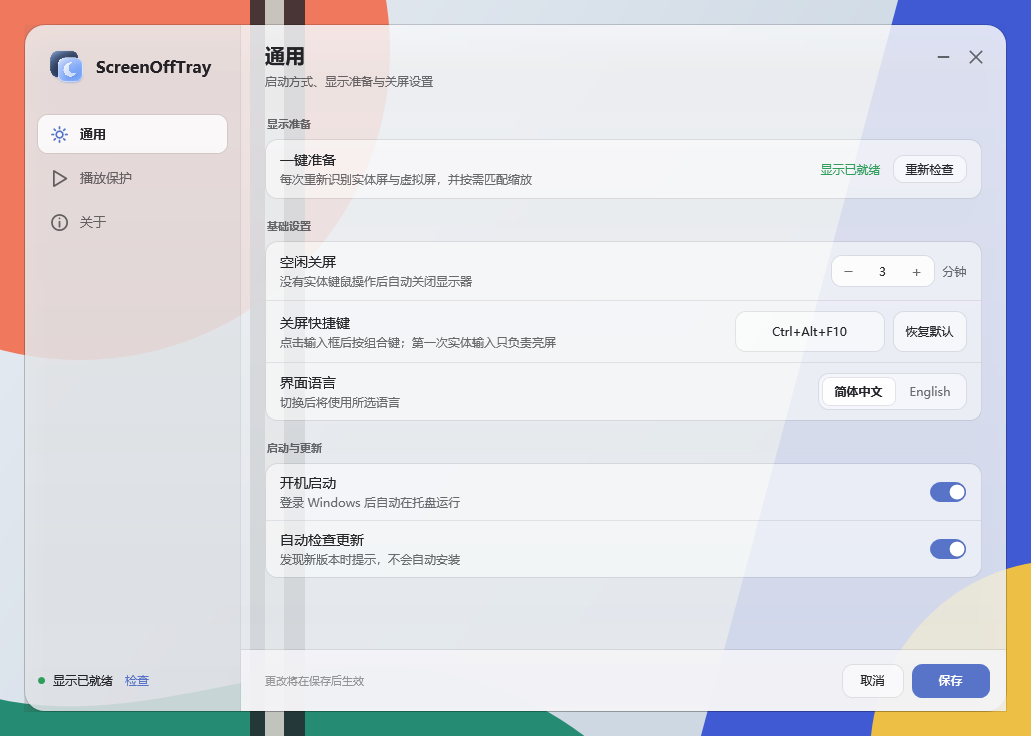
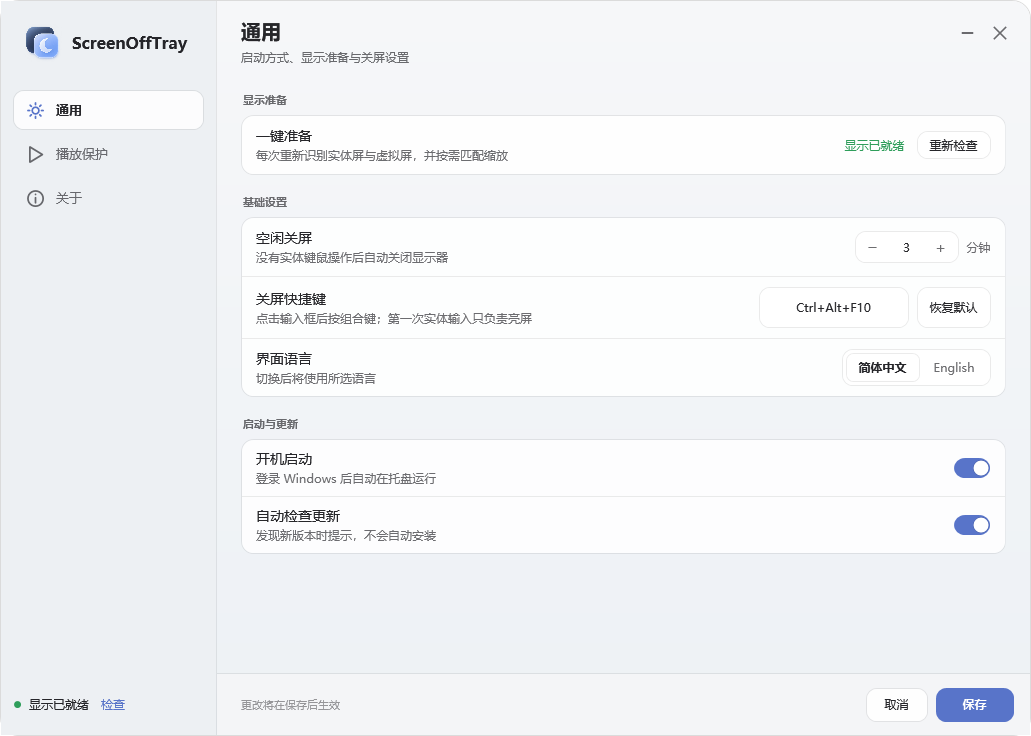
feat: release neutral glass UI 0.2.1

diff --git a/帮助.html b/帮助.html
@@ -2,7 +2,7 @@
 <html lang="zh-CN"><meta charset="utf-8"><meta name="viewport" content="width=device-width,initial-scale=1">
 <title>ScreenOffTray 使用帮助 / Help</title>
 <style>body{font:16px/1.7 "Microsoft YaHei UI","Segoe UI",sans-serif;color:#202020;background:#fafafa;max-width:740px;margin:40px auto;padding:0 24px}h1{font-size:28px}h2{font-size:21px;margin-top:32px}kbd{font:inherit;background:#eee;border:1px solid #ccc;border-radius:4px;padding:1px 5px}a{color:#075ca8}li{margin:8px 0}hr{border:0;border-top:1px solid #ccc;margin:40px 0}</style>
-<h1>自动关屏 · ScreenOffTray 0.2.0</h1>
+<h1>自动关屏 · ScreenOffTray 0.2.1</h1>
 <p>只关闭显示器，继续运行当前程序和后台任务。适用于 Windows 10 22H2 / Windows 11 x64，以及一个实体显示器。</p>
 <h2>开始使用</h2>
 <ol><li>打开安装包，按 Windows 提示完成管理员确认。已有可用虚拟显示驱动会直接复用；日常使用不需要管理员权限。</li><li>安装完成后核对启动结果；需要配置时自动打开设置引导，升级且已就绪时直接进入托盘。点击“一键准备”，程序按当前实体屏的实际像素尺寸检查虚拟模式；横屏、竖屏和不同宽高比使用同一流程，不固定某个分辨率或缩放。</li><li>Windows 已列出精确模式时直接复用，不改配置、不重载。缺少模式时，程序在普通权限允许的配置中保留原内容、备份原件并补充模式，必要时请求管理员确认，仅重新载入已核实的唯一虚拟设备。期间可能闪屏或改变布局；不卸载驱动、不关闭其他软件，也不会自动重启电脑。</li><li>设备重载后重新建立显示基线，再进入受保护准备，核对真实分辨率和缩放，完成后回到仅实体屏显示。显示“已就绪”后关闭设置，继续在托盘运行。准备期间请勿同时修改 Windows 显示设置。</li><li>驱动不接受模式、缩放不匹配、配置受保护、外部配置变更或设备要求重启时，会说明原因并保持关屏停用。分辨率已补充不代表缩放已匹配；设备重载前的旧快照不保证跨重载恢复。技术信息见“诊断详情”。</li><li>托盘右键是小菜单，“设置…”打开独立窗口；关闭窗口后继续在托盘运行。普通设置点保存生效，白名单增删即时保存。新用户默认空闲 10 分钟，识别到唯一旧设置时保留；开机启动默认关闭。</li></ol>
@@ -12,7 +12,7 @@
 <p>首次准备和设置中的一键准备共用同一流程。管理员确认取消后，已安全补充的模式可能保留，但不会宣称设备已重载或关屏已启用。取消或退出会等待正在进行的系统设备操作返回，不强行结束系统进程。</p>
 <p>每次点击“一键准备”都重新读取当前显示条件。临时扩展后，仅将已核实 MttVDD 的缩放匹配到实体屏；已一致时不重复写入。使用未公开的 Windows 缩放接口，须核对支持范围和实际读数，不支持自定义比例或无法核验时停止；不会修改实体屏缩放。失败后依照原恢复保护核对原布局，成功后回到仅实体屏显示。</p>
 <p>若检测到配置同时被其他软件更新，会停止后续重载并保留原件、实际被替换版和变更记录，供核对处理；不会猜测性自动回滚。无法核验分辨率或缩放时同样保持停用，不降低实体屏分辨率。</p>
-<p>设置窗口由独立 WPF 进程承载，分为通用、播放保护、关于三页，并提供几何、暖白、黑色三种外观。窗口按工作区自动调整大小；文字保持正常排版，较小工作区以正文滚动保留操作按钮，长诊断与播放列表只在局部滚动。</p>
+<p>设置窗口由独立 WPF 进程承载，分为通用、播放保护、关于三页，并提供浅色、暖白、黑色三种外观。浅色使用中性蓝灰雾面，不再照搬参考页的彩色几何壁纸；安装向导沿用同一套蓝灰材质、细高光边、玻璃卡片和双层月亮标识，同时保留系统原生文字、按钮、键盘操作与高 DPI 行为。窗口按工作区自动调整大小；文字保持正常排版，较小工作区以正文滚动保留操作按钮，长诊断与播放列表只在局部滚动。</p>
 <h2>关屏与唤醒</h2>
 <ul><li>默认快捷键为 <kbd>Ctrl</kbd> + <kbd>Alt</kbd> + <kbd>F10</kbd>，也可使用菜单“立即关屏”。托盘右键→“设置…”里点击快捷键输入框，直接按组合键录入，点击保存后生效并在下次启动时保留。“恢复默认”需再点击保存；取消不会修改。若组合键已被占用或保存失败，原快捷键保持有效。暂停自动关屏时，手动关屏仍可使用。</li><li>实际关屏后有 3 秒保护期。期间的实体按键和鼠标按钮不唤醒，也不传给当前软件。</li><li>保护期结束后，松开已按住的键，再按一次实体键盘或鼠标按钮唤醒。第一次按下及其松开只负责亮屏；第二次才正常操作软件。</li><li>移动鼠标、滚轮、Windows 标记为注入的键鼠输入不唤醒。不能据此保证所有第三方内核模拟输入都可被区分。</li><li>关屏期间保持系统运行，不锁屏、不睡眠、不休眠、不关机。工具不修改电源计划、NVIDIA 模式或安全设置。</li></ul>
 <h2>自动关屏与暂停原因</h2><p>自动计时只使用已有实体键鼠识别规则。打开设置，在“当前播放程序”旁加入白名单；保存的名单用单行下拉选择，可直接移除。添加和移除即时保存，取消其他设置不会撤销名单变化。首次使用名单为空；只有可执行文件完整路径匹配的音频程序正在播放，才保护自动关屏。纯静音视频、名单以外的程序和系统亮屏请求本身不保护。</p><p>播放停止后重新等待完整关闭时间。默认播放保护上限为60分钟，从最后一次实体输入计算；达到上限后即使继续播放，也不再保护自动关屏，但仍须达到普通空闲时间。可在设置关闭上限。可靠对应到同一程序、状态新鲜且明确暂停的播放器会从当前播放中排除；不保证所有播放器的识别。音频状态或白名单读取失败时，自动关屏暂停并显示原因；损坏的名单不会当作空名单，原始设置保留，成功保存有效名单后恢复判断。手动“立即关屏”和快捷键不受播放保护限制。</p>
@@ -27,7 +27,7 @@
 <p>显示条件不符时，程序暂停关屏。安装后会直接进入独立首次配置引导，检查通过才显示“已就绪，开始使用”。显示条件不符时，引导会说明如何处理，并留在同一窗口供重新检查；关闭可稍后处理。首次配置未完成时，程序不会关屏。正常就绪启动保持安静。同一次运行的相同未解决异常不反复弹窗，可随时从托盘“设置…”查看。发生恢复失败时请保留运行记录，并使用旧版回退材料，避免盲目重装其他软件的显示驱动。</p>
 <hr>
 <section lang="en"><h1>ScreenOffTray Help</h1>
-<p>Turns off the display while applications and background tasks continue. Version 0.2.0 targets Windows 10 22H2 / Windows 11 x64 with one physical display.</p>
+<p>Turns off the display while applications and background tasks continue. Version 0.2.1 targets Windows 10 22H2 / Windows 11 x64 with one physical display.</p>
 <h2>Get started</h2>
 <p>After installation, choose “Complete setup” or “Adapt display”. The same flow uses the current physical source pixel dimensions for landscape, portrait and different aspect ratios. If Windows already lists the exact virtual mode, no configuration or device reload is needed. Otherwise, the app preserves and backs up a supported, writable configuration, adds the mode, then requests administrator approval only for restarting the verified virtual device. This may flicker or change the display layout; it does not uninstall drivers, close other apps or reboot Windows automatically.</p>
 <p>After reload, setup captures a fresh display baseline and runs the existing protected resolution and DPI checks. Only then does it leave physical display only and report Ready. Do not change Windows display settings during preparation. A mode entry alone does not prove matching DPI; failure leaves display off disabled. A pre-reload snapshot is not guaranteed to restore a reloaded device's changed identities.</p>
@@ -38,7 +38,7 @@
 <p>Cancelling the administrator prompt may leave a safely added mode in the file, but does not claim a successful reload or readiness. Cancellation and exit wait for an in-flight system operation rather than force-killing it. Conflicting external edits stop further reload and retain the original, actual replaced version and change record for resolution; no speculative automatic rollback is performed.</p>
 <p>Every Prepare attempt reads current display conditions. After a guarded temporary extension, only the verified MttVDD scale is matched to the physical display; matching values are not rewritten. This uses an undocumented Windows scaling interface with range and measured-readback checks. Unsupported custom scales or unverifiable readings stop preparation without changing physical scale. Failures retain the existing original-layout recovery protection; successful preparation leaves physical display only.</p>
 <p>Unsupported modes, unavailable or mismatched DPI, configuration conflicts and reboot requirements are reported. The app does not lower physical resolution.</p>
-<p>Settings runs in a separate WPF process with General, Playback protection and About pages. Geometry, Warm white and Black appearances are available. The window adapts to the monitor work area; text keeps normal layout, smaller work areas allow body scrolling while preserving action buttons, and diagnostics and playback lists use local scrolling.</p>
+<p>Settings runs in a separate WPF process with General, Playback protection and About pages. Light, Warm white and Black appearances are available. Light uses a neutral blue-gray frosted background rather than the reference sample's colored geometry wallpaper. Setup uses the same blue-gray material, fine highlight edges, glass cards and layered-moon mark while retaining native text, buttons, keyboard behavior and high-DPI handling. The window adapts to the monitor work area; text keeps normal layout, smaller work areas allow body scrolling while preserving action buttons, and diagnostics and playback lists use local scrolling.</p>
 <h2>Turn off and wake</h2>
 <p>The default shortcut is <kbd>Ctrl+Alt+F10</kbd>. Open Settings from the tray, focus the shortcut box and press the desired combination. Release the keys, then Save to apply and remember it. “Use default” changes the draft until saved; Cancel keeps the current shortcut. If the shortcut is already in use or saving fails, the previous shortcut stays active. You can also use “Turn off now”. Manual off still works while automatic off is paused. The 3-second guard starts after the display turns off. Presses during the guard are ignored. Release any held input, then press a physical key or mouse button to wake. The first press and release are consumed; the second works normally. Mouse motion, scrolling and Windows-marked injected input do not wake. Some kernel-level simulated input cannot be reliably distinguished.</p>
 <p>The app does not lock, sleep, hibernate or shut down Windows. It does not change NVIDIA modes, power plans or security settings.</p>

diff --git a/WpfSettings/SettingsWindow.xaml b/WpfSettings/SettingsWindow.xaml
@@ -16,33 +16,12 @@
     </ResourceDictionary>
   </Window.Resources>
 
-  <Grid x:Name="Stage">
-    <Grid.Background>
-      <LinearGradientBrush StartPoint="0,0" EndPoint="1,1">
-        <GradientStop Color="#E8EDF3" Offset="0"/>
-        <GradientStop Color="#DDE5ED" Offset="0.52"/>
-        <GradientStop Color="#CDD8E3" Offset="1"/>
-      </LinearGradientBrush>
-    </Grid.Background>
-    <Canvas x:Name="GeometryLayer" ClipToBounds="True">
-      <Ellipse Width="620" Height="620" Canvas.Left="-230" Canvas.Top="-260" Fill="#F0785D"/>
-      <Rectangle Width="520" Height="980" Canvas.Left="800" Canvas.Top="-90" Fill="#405AD4" RenderTransformOrigin="0.5,0.5">
-        <Rectangle.RenderTransform><RotateTransform Angle="15"/></Rectangle.RenderTransform>
-      </Rectangle>
-      <Path Fill="#268B73" Data="M -110 650 C 70 780 260 640 430 670 C 610 700 700 850 710 930 L -110 930 Z"/>
-      <Ellipse Width="390" Height="390" Canvas.Left="870" Canvas.Top="560" Fill="#EDBF45"/>
-      <Rectangle Width="55" Height="900" Canvas.Left="250" Canvas.Top="-50" Fill="#24262C" Opacity="0.82"/>
-      <Rectangle Width="19" Height="900" Canvas.Left="265" Canvas.Top="-50" Fill="#E9E6DE" Opacity="0.8"/>
-    </Canvas>
-
-    <Border x:Name="Shell" Margin="24" CornerRadius="20" BorderBrush="#24000000" BorderThickness="1" ClipToBounds="True">
-      <Border.Effect>
-        <DropShadowEffect BlurRadius="45" ShadowDepth="17" Direction="270" Opacity="0.224" Color="#000000"/>
-      </Border.Effect>
+  <Grid x:Name="Stage" Background="Transparent">
+    <Border x:Name="Shell" Margin="0" CornerRadius="18" BorderBrush="#24000000" BorderThickness="1" ClipToBounds="True">
       <Border.Background>
         <LinearGradientBrush StartPoint="0,0" EndPoint="0,1">
-          <GradientStop Color="#EAF6F7F9" Offset="0"/>
-          <GradientStop Color="#E8EDF1F5" Offset="1"/>
+          <GradientStop Color="#FFF6F7F9" Offset="0"/>
+          <GradientStop Color="#FFEDF1F5" Offset="1"/>
         </LinearGradientBrush>
       </Border.Background>
       <Grid>
@@ -51,7 +30,7 @@
           <ColumnDefinition Width="*"/>
         </Grid.ColumnDefinitions>
 
-        <Border x:Name="SidebarSurface" Grid.Column="0" Background="#16808080" BorderBrush="{DynamicResource Stroke}" BorderThickness="0,0,1,0">
+        <Border x:Name="SidebarSurface" Grid.Column="0" Background="#FFEDF0F3" BorderBrush="{DynamicResource Stroke}" BorderThickness="0,0,1,0">
           <Grid Margin="12,23,12,20">
             <Grid.RowDefinitions>
               <RowDefinition Height="Auto"/>
@@ -335,7 +314,7 @@
                   <Image Source="Assets/app-icon.png" Width="82" Height="82" Stretch="Uniform"/>
                   <StackPanel Grid.Column="1" VerticalAlignment="Center">
                     <TextBlock Text="ScreenOffTray" FontSize="20" FontWeight="SemiBold" Foreground="{DynamicResource Text1}"/>
-                    <TextBlock Text="版本 0.2.0 · Windows x64" FontSize="12" Foreground="{DynamicResource Text2}" Margin="0,5,0,0"/>
+                    <TextBlock Text="版本 0.2.1 · Windows x64" FontSize="12" Foreground="{DynamicResource Text2}" Margin="0,5,0,0"/>
                     <TextBlock Text="只关闭显示器，后台程序和任务继续运行。" FontSize="12" Foreground="{DynamicResource Text2}" Margin="0,5,0,0"/>
                     <TextBlock x:Name="UpdateStatusText" Visibility="Collapsed" TextWrapping="Wrap" FontSize="11" Foreground="{DynamicResource Accent}" Margin="0,6,0,0"/>
                   </StackPanel>
@@ -362,7 +341,7 @@
                     </StackPanel>
                     <Border HorizontalAlignment="Right" Background="{DynamicResource FillControl}" BorderBrush="{DynamicResource Stroke}" BorderThickness="1" CornerRadius="10" Padding="2">
                       <StackPanel Orientation="Horizontal">
-                        <RadioButton x:Name="GeometryChoice" Style="{StaticResource SegmentedChoice}" GroupName="PreviewBackground" Content="几何" IsChecked="True" Tag="geometry" Click="OnBackgroundChoice"/>
+                        <RadioButton x:Name="GeometryChoice" Style="{StaticResource SegmentedChoice}" GroupName="PreviewBackground" Content="浅色" IsChecked="True" Tag="geometry" Click="OnBackgroundChoice"/>
                         <RadioButton x:Name="WarmChoice" Style="{StaticResource SegmentedChoice}" GroupName="PreviewBackground" Content="暖白" Tag="warm" Click="OnBackgroundChoice"/>
                         <RadioButton x:Name="BlackChoice" Style="{StaticResource SegmentedChoice}" GroupName="PreviewBackground" Content="黑色" Tag="black" Click="OnBackgroundChoice"/>
                       </StackPanel>
@@ -386,7 +365,7 @@
             <TextBlock x:Name="ErrorText" FontSize="12" Foreground="{DynamicResource Danger}" TextWrapping="Wrap"/>
           </Border>
 
-          <Border x:Name="FooterBar" Grid.Row="3" BorderBrush="{DynamicResource Stroke}" BorderThickness="0,1,0,0" Background="#EAF4F5F7">
+          <Border x:Name="FooterBar" Grid.Row="3" BorderBrush="{DynamicResource Stroke}" BorderThickness="0,1,0,0" Background="#FFF4F5F7">
             <Grid Margin="24,0,16,0">
               <Grid.ColumnDefinitions><ColumnDefinition Width="*"/><ColumnDefinition Width="Auto"/></Grid.ColumnDefinitions>
               <TextBlock x:Name="FooterHint" Text="更改将在保存后生效" FontSize="11" Foreground="{DynamicResource Text3}" VerticalAlignment="Center"/>

diff --git a/WpfSettings/SettingsWindow.cs b/WpfSettings/SettingsWindow.cs
@@ -100,7 +100,7 @@ namespace ScreenOffTray.SettingsUi
             {
                 string value;
                 if(StaticTranslations.TryGetValue(text.Text,out value))text.Text=value;
-                else if(text.Text=="版本 0.2.0 · Windows x64")text.Text="Version 0.2.0 · Windows x64";
+                else if(text.Text=="版本 0.2.1 · Windows x64")text.Text="Version 0.2.1 · Windows x64";
             }
             var control=root as ContentControl;
             if(control!=null && control.Content is string)
@@ -144,7 +144,7 @@ namespace ScreenOffTray.SettingsUi
             {"3 秒防误触","3-second guard"},{"保护期内的实体输入不会唤醒，也不会传给当前软件","Physical input during the guard neither wakes nor reaches the active app"},
             {"首次输入只负责亮屏","First input only wakes"},{"松开后再次按键或点击，才会正常操作软件","Release, then press or click again to control the app"},
             {"外观","Appearance"},{"窗口外观","Window appearance"},{"三套外观只改变设置窗口材质，选择会随设置保存","The three appearances change only this Settings window and are saved with your settings"},
-            {"几何","Geometry"},{"暖白","Warm white"},{"黑色","Black"},
+            {"浅色","Light"},{"暖白","Warm white"},{"黑色","Black"},
             {"数据与帮助","Data and help"},{"设置保存在本机","Settings stay on this PC"},{"安装版由独立后台读写；当前预览不会修改正式配置","The installed app stores settings through its local backend"},
             {"本地","Local"},{"打开使用帮助","Open help"},{"查看显示准备、播放保护与快捷键说明","Read about display preparation, playback protection and hotkeys"},{"打开","Open"},
             {"检查更新","Check for updates"},{"更改将在保存后生效","Changes take effect after saving"},{"白名单增删即时保存","Allowlist changes save immediately"},
@@ -425,25 +425,30 @@ namespace ScreenOffTray.SettingsUi
             backgroundMode=(mode??"geometry").ToLowerInvariant();
             if(backgroundMode!="geometry" && backgroundMode!="warm" && backgroundMode!="black")backgroundMode="geometry";
             bool dark=backgroundMode=="black";
-            if(GeometryLayer==null)return;
-            GeometryLayer.Visibility=backgroundMode=="geometry"?Visibility.Visible:Visibility.Collapsed;
-            if(backgroundMode=="warm")Stage.Background=MakeBrush("#E8E5DF");
-            else if(dark)Stage.Background=MakeBrush("#0D0E12");
-            else Stage.Background=new LinearGradientBrush(ParseColor("#E8EDF3"),ParseColor("#CDD8E3"),45);
+            Stage.Background=Brushes.Transparent;
             GeometryChoice.IsChecked=backgroundMode=="geometry";WarmChoice.IsChecked=backgroundMode=="warm";BlackChoice.IsChecked=backgroundMode=="black";
             if(dark)
             {
                 Resources["Text1"]=MakeBrush("#F2FFFFFF");Resources["Text2"]=MakeBrush("#A6FFFFFF");Resources["Text3"]=MakeBrush("#70FFFFFF");
-                Resources["Stroke"]=MakeBrush("#18FFFFFF");Resources["FillControl"]=MakeBrush("#12FFFFFF");Resources["FillHover"]=MakeBrush("#0FFFFFFF");
+                Resources["Stroke"]=MakeBrush("#18FFFFFF");Resources["FillControl"]=MakeBrush("#20FFFFFF");Resources["FillHover"]=MakeBrush("#18FFFFFF");
                 Resources["FillSelected"]=MakeBrush("#20FFFFFF");Resources["WarningSurface"]=MakeBrush("#2AF5A524");Resources["DangerSurface"]=MakeBrush("#28E5484D");Resources["SuccessSurface"]=MakeBrush("#2035B880");
-                Shell.Background=MakeGradient("#F0181A1E","#F0121417");SidebarSurface.Background=MakeBrush("#18FFFFFF");FooterBar.Background=MakeBrush("#E614171B");Shell.BorderBrush=MakeBrush("#22FFFFFF");
+                Shell.Background=MakeGradient("#FF181A1E","#FF121417");SidebarSurface.Background=MakeBrush("#FF24272C");FooterBar.Background=MakeBrush("#FF14171B");Shell.BorderBrush=MakeBrush("#22FFFFFF");
             }
             else
             {
                 Resources["Text1"]=MakeBrush("#EB141418");Resources["Text2"]=MakeBrush("#9E141418");Resources["Text3"]=MakeBrush("#6B141418");
-                Resources["Stroke"]=MakeBrush("#14000000");Resources["FillControl"]=MakeBrush("#80FFFFFF");Resources["FillHover"]=MakeBrush("#0C000000");
-                Resources["FillSelected"]=MakeBrush("#CFFFFFFF");Resources["WarningSurface"]=MakeBrush("#FFF8E8");Resources["DangerSurface"]=MakeBrush("#FFF0F0");Resources["SuccessSurface"]=MakeBrush("#EEF9F2");
-                Shell.Background=MakeGradient("#DCF6F7F9","#D8EDF1F5");SidebarSurface.Background=MakeBrush("#16808080");FooterBar.Background=MakeBrush("#DCF4F5F7");Shell.BorderBrush=MakeBrush("#24000000");
+                if(backgroundMode=="warm")
+                {
+                    Resources["Stroke"]=MakeBrush("#1C5B4E40");Resources["FillControl"]=MakeBrush("#FFFDFBF7");Resources["FillHover"]=MakeBrush("#0C5B4E40");
+                    Resources["FillSelected"]=MakeBrush("#FFFFFEFA");Resources["WarningSurface"]=MakeBrush("#FFF8E8");Resources["DangerSurface"]=MakeBrush("#FFF0F0");Resources["SuccessSurface"]=MakeBrush("#EEF9F2");
+                    Shell.Background=MakeGradient("#FFF7F3ED","#FFEEEAE2");SidebarSurface.Background=MakeBrush("#FFF1EDE6");FooterBar.Background=MakeBrush("#FFFAF7F2");Shell.BorderBrush=MakeBrush("#285B4E40");
+                }
+                else
+                {
+                    Resources["Stroke"]=MakeBrush("#14000000");Resources["FillControl"]=MakeBrush("#DFFFFFFF");Resources["FillHover"]=MakeBrush("#0C000000");
+                    Resources["FillSelected"]=MakeBrush("#CFFFFFFF");Resources["WarningSurface"]=MakeBrush("#FFF8E8");Resources["DangerSurface"]=MakeBrush("#FFF0F0");Resources["SuccessSurface"]=MakeBrush("#EEF9F2");
+                    Shell.Background=MakeGradient("#FFF6F7F9","#FFEDF1F5");SidebarSurface.Background=MakeBrush("#FFEDF0F3");FooterBar.Background=MakeBrush("#FFF4F5F7");Shell.BorderBrush=MakeBrush("#24000000");
+                }
             }
         }
 

diff --git a/tests/WpfSettingsLayoutTests.cs b/tests/WpfSettingsLayoutTests.cs
@@ -50,6 +50,8 @@ internal static class WpfSettingsLayoutTests
                 string tag=english?"en":"zh";
                 Check(Math.Abs(window.Width/window.Height-1.4)<0.001,tag+" preserves the 7:5 window ratio");
                 Check(window.ActualWidth>0 && window.ActualHeight>0,tag+" has a visible native work area");
+                Check(Field<Border>(window,"Shell").Margin==new Thickness(0),tag+" uses the glass shell as the window boundary without a display backdrop");
+                Check(((SolidColorBrush)Field<Border>(window,"FooterBar").Background).Color.A==255,tag+" keeps the footer surface opaque to prevent transparent-window ghosting");
                 Check(Field<ComboBox>(window,"WhitelistCombo").Items.Count==10,tag+" renders all ten allowlist entries");
                 Check(Field<Border>(window,"FooterBar").ActualHeight>0,tag+" keeps a fixed footer");
                 Check(Field<Button>(window,"SaveButton").IsVisible && Field<Button>(window,"CancelButton").IsVisible,tag+" keeps save and cancel visible");
@@ -64,11 +66,19 @@ internal static class WpfSettingsLayoutTests
                 window.SetPlaybackState(true,false);
                 Check(summary.Text.Contains(english?"limit reached":"上限已到"),tag+" reports that the playback limit ended protection");
 
+                string lightShell=null,warmShell=null,blackShell=null;
                 foreach(string theme in new[]{"geometry","warm","black","geometry"}) {
                     window.SetValues(3,"Ctrl+Alt+F10",english?"en":"zh-CN",true,true,true,87,theme);
                     Check(window.InterfaceTheme==theme,tag+" applies "+theme+" appearance");
+                    string shellColor=((LinearGradientBrush)Field<Border>(window,"Shell").Background).GradientStops[0].Color.ToString();
+                    if(theme=="geometry")lightShell=shellColor;
+                    else if(theme=="warm")warmShell=shellColor;
+                    else blackShell=shellColor;
+                    ShowPage(window,"general");
+                    Capture(window,"settings-"+theme+"-"+tag+".png");
                 }
-                Check(Field<Canvas>(window,"GeometryLayer").Visibility==Visibility.Visible,tag+" geometry decorations are visible by default");
+                Check(lightShell!=warmShell && warmShell!=blackShell && lightShell!=blackShell,tag+" uses distinct top-level colors for all three appearances");
+                Check(window.FindName("GeometryLayer")==null,tag+" removes the reference image's colored geometry wallpaper");
                 ShowPage(window,"playback");Capture(window,"settings-playback-"+tag+".png");
                 ShowPage(window,"about");Capture(window,"settings-about-"+tag+".png");
                 ShowPage(window,"general");Capture(window,"settings-general-"+tag+".png");

diff --git a/tests/UpdateVersionTests.cs b/tests/UpdateVersionTests.cs
@@ -21,13 +21,16 @@ namespace ScreenOffTray.Tests {
             Test("0.1.9.13","v0.2.0",UpdateCheckStatus.Available);
             Test("0.2.0","v0.1.9.13",UpdateCheckStatus.UpToDate);
             Test("0.2.0","v0.2.0",UpdateCheckStatus.UpToDate);
+            Test("0.2.0","v0.2.1",UpdateCheckStatus.Available);
+            Test("0.2.1","v0.2.0",UpdateCheckStatus.UpToDate);
+            Test("0.2.1","v0.2.1",UpdateCheckStatus.UpToDate);
             var unused=new Fake();using(var checker=new UpdateChecker("",new Version("0.1.9.11"),unused,TimeSpan.FromSeconds(2),16384)) {
                 var field=typeof(UpdateChecker).GetField("client",System.Reflection.BindingFlags.Instance|System.Reflection.BindingFlags.NonPublic);
                 if(field.GetValue(checker)!=null)throw new Exception("Unused client was allocated");
                 if(checker.CheckAsync(CancellationToken.None).Result.Status!=UpdateCheckStatus.NotConfigured || field.GetValue(checker)!=null)throw new Exception("Blank update source created HTTP client");
             }
             if(unused.Disposals!=1)throw new Exception("Unconsumed handler ownership was not released once");
-            Console.WriteLine("PASS 10 actual update-parser four-part version checks; fake HTTP only"); return 0;
+            Console.WriteLine("PASS 13 actual update-parser four-part version checks; fake HTTP only"); return 0;
             } catch(Exception error) { Console.WriteLine(error.GetType().FullName); Console.WriteLine(error.Message); return 1; }
         }
         private static void Test(string current,string tag,UpdateCheckStatus expected) {

diff --git a/Properties/AssemblyInfo.cs b/Properties/AssemblyInfo.cs
@@ -6,5 +6,5 @@ using System.Runtime.InteropServices;
 [assembly: AssemblyProduct("ScreenOffTray")]
 // Keep the existing settings version stable; file/product versions identify releases.
 [assembly: AssemblyVersion("0.0.0.0")]
-[assembly: AssemblyFileVersion("0.2.0.0")]
+[assembly: AssemblyFileVersion("0.2.1.0")]
 [assembly: ComVisible(false)]

diff --git a/docs/版本验证.md b/docs/版本验证.md
@@ -1,29 +1,27 @@
-# 0.1.9 验证范围 / Validation scope
+# 0.2.1 验证范围 / Validation scope
 
-本版为预发布，以下是已完成检查和剩余边界，不是全面稳定性保证。
+本版只修改设置外观与安装向导视觉，驱动、显示准备、关屏、输入恢复和播放判断沿用 `0.2.0`。完整记录见 [0.2.1 中性玻璃与安装器](0.2.1-中性玻璃与安装器.md)。
 
 ## 已完成
 
-- C稿结构、宽窄窗口、中英文代表样本、分钟/快捷键校验、保存取消、名单即时保存与失败保留、准备取消的隔离检查。
-- 低高度错误展示及恢复29项、中文96/192模拟DPI各29项、英文原窗口宽窄29项定向检查通过。真实窗口DPI120；其他DPI/工作区为模拟输入，不冒充实屏切换。
-- 四类猫动作、随机队列、键盘路由、姿态绘制、隐藏/最小化停止和重复释放的隔离检查。
-- 专门codex review使用gpt-6.1-sol/high，发现的低高度与旧测试入口问题已处理，后续最小增量独立复核。
-- 当前未插桩源码的可见关闭与宿主消息循环存活检查通过；无真实设置/设备操作。
-- .NET Framework 4.8/C#5、Inno Setup 7.1.0干净暂存构建，最终包解包比对。11项产品文件，无日志、个人设置、快照、测试程序或PDB；AssemblyVersion保持0.0.0.0，FileVersion=0.1.9.0。
-- 驱动INF/DLL/CAT和UI接入前的39项冻结文件保持不变。未改系统显示、驱动、安全或电源设置。
+- 删除彩色几何壁纸、外围演示底图、外边距和投影；设置窗口只保留自身圆角磨砂玻璃边界。
+- 顶层窗口、侧栏和页脚使用不透明雾面材质，隔离截图未再出现透明窗口内容重影。
+- 隔离 WPF 布局 39 项通过、0 失败，覆盖中英文、十项名单、宽窄工作区、固定底栏、键盘可见性、背景删除、不透明页脚与三套主题实际颜色差异。
+- 浅色、暖白、黑色三套截图均来自隔离假数据，不包含正式设置或个人程序路径。
+- Inno Setup 7.1.0 编译通过；动态浅/深色背景、侧图、小图和 Pane 风格字段被编译器接受。
+- 更新版本解析 13 项通过；安装器版本门禁 4 项通过，`0.2.1` 高于 `0.2.0`。
 
-## 已知问题与未验证
+## 未验证
 
-可见关闭探针曾在FormClosed后超时；旧诊断二进制、带记录副本与当前源码随后都正常关闭并继续宿主消息循环，原因仍未定位。没有为迎合测试猜测修改退出语义，也没有宣称偶发超时已根治。
-
-本版未验证干净Windows安装/升级、长期运行、真实跨屏DPI切换或全部硬件。未重复人工关屏矩阵。虚拟屏可能影响部分混合显卡的自动独显直连，未验证全面无影响。首次准备仅支持一个已启用实体屏；远程虚拟屏条件不符时可稍后处理，无需重复安装。
-
-截图是实际WinForms设置窗口，来自隔离假数据，并非用户当前配置；测试源码可复现部分检查。发布安装包与已验证的本地产物逐字节比对，公开发布不等于实机安装成功。
+- 未覆盖安装当前正式程序。
+- 未重复端到端人工关屏、驱动和输入恢复矩阵，因为相关代码未修改。
+- 安装器实际运行截图未纳入证据：当前电脑工具启动预览程序时审批超时。
+- 干净 Windows 安装、全部 DPI/多屏硬件和长期稳定性仍不等同于本批隔离检查。
 
 ## English
 
-Targeted native UI, animation, settings transaction and cancellation checks passed in isolation. Representative simulated DPI/work areas were tested; actual HWND DPI was120. Dedicated code review used gpt-6.1-sol/high. The final installer was unpacked and compared to the clean payload; driver files and accepted core decisions were preserved.
+This release changes Settings and Setup presentation only. Driver, display preparation, display-off, input recovery and playback decisions remain unchanged from `0.2.0`.
 
-A visible close probe previously timed out after FormClosed. Subsequent old-binary and current-source checks completed closure while the host loop survived; the cause is unknown. This is not a claim of permanent resolution.
+The colored geometry wallpaper, display-only backdrop, outer margin and shadow are removed. Opaque misted surfaces are used for the top-level window, sidebar and footer so isolated screenshots no longer show transparent-window content ghosting. Thirty-nine isolated WPF layout checks passed in Chinese and English, with ten allowlist rows, compact and regular layouts, fixed footer, background removal, opaque-footer and distinct appearance-color assertions. Inno Setup 7.1.0 accepted the dynamic light/dark wizard images. Update parsing and numeric installer version gates passed.
 
-Clean Windows installation/upgrades, long-running behavior, physical DPI transitions and full hardware compatibility remain unverified for this release. Remote virtual-display preparation and multiple physical displays are not supported. Hybrid GPU switching compatibility remains uncertain. The screenshot uses isolated demo data.
+The installed application was not overwritten. Hardware display-off, driver and input-recovery matrices were not repeated because their code did not change. A live Setup screenshot is not used as evidence because the local computer-use launch approval timed out. Clean Windows installation, every DPI/multi-display configuration and long-running stability remain outside this visual-release scope.

diff --git a/README_EN.md b/README_EN.md
@@ -1,4 +1,4 @@
-> ScreenOffTray 0.2.0 moves Settings into a separate Pane-styled WPF process with Geometry, Warm white and Black appearances. Existing driver, display-off, input recovery, playback protection and display preparation behavior is retained.
+> ScreenOffTray 0.2.1 brings Settings and Setup into one Pane-inspired neutral frosted-glass language with Light, Warm white and Black appearances. Existing driver, display-off, input recovery, playback protection and display preparation behavior is retained.
 
 # ScreenOffTray
 
@@ -8,13 +8,13 @@
 
 A Windows tray utility for OLED users who want the screen off while downloads, calculations and background work continue. Turn it off immediately with a shortcut, or automatically after physical keyboard and mouse inactivity. It does not lock, sleep, hibernate or shut down Windows.
 
-**[Download the Windows x64 installer · v0.2.0](https://github.com/shilefumaoqu/ScreenOffTray/releases/tag/v0.2.0)**
+**[Download the Windows x64 installer · v0.2.1](https://github.com/shilefumaoqu/ScreenOffTray/releases/tag/v0.2.1)**
 
-**0.2.0** runs the Pane-styled UI in `ScreenOffTray.Settings.exe`, while the background process continues to own tray state, playback protection, hotkeys and display off. The previous `v0.1.9` and older installers remain available.
+**0.2.1** removes the reference sample's colored geometry wallpaper and the display-only backdrop, outer margin and shadow from Settings, leaving only the neutral blue-gray rounded frosted-glass window. Opaque top-level misted surfaces also remove transparent-window content ghosting. Setup uses matching light and dark misted backgrounds, glass cards and the same layered-moon mark. `ScreenOffTray.Settings.exe` still owns the window, while the background process owns tray state, playback protection, hotkeys and display off. `v0.2.0`, `v0.1.9` and older installers remain available.
 
-![English Geometry appearance using isolated demo data](docs/images/settings-en.png)
+![English Light appearance using isolated demo data](docs/images/settings-en.png)
 
-Right-click opens a small menu with status and quick actions. Settings opens a separate Pane-styled WPF window with General, Playback protection and About pages. Geometry, Warm white and Black appearances are available; Geometry is the default and the choice is saved with the other settings. Application icons come from their executable files, while the header uses the supplied layered-moon icon. Closing Settings ends only that UI process; the tray application keeps running. Ready startup remains silent. The installer continues into the same Settings host: check displays, complete preparation, and confirm readiness. Users can defer action; display off stays disabled until preparation is verified.
+Right-click opens a small menu with status and quick actions. Settings opens a separate Pane-styled WPF window with General, Playback protection and About pages. Light, Warm white and Black appearances are available; Light is the default and the choice is saved with the other settings. Application icons come from their executable files, while Settings and Setup share the supplied layered-moon mark. Closing Settings ends only that UI process; the tray application keeps running. Ready startup remains silent. The installer continues into the same Settings host: check displays, complete preparation, and confirm readiness. Users can defer action; display off stays disabled until preparation is verified.
 
 [Chinese UI](docs/images/settings-zh.png) · [Warm white](docs/images/settings-warm.png) · [Black](docs/images/settings-black.png)
 
@@ -22,7 +22,7 @@ Targets **Windows 10 22H2 / Windows 11 x64 with one physical display** and requi
 
 ## Get started
 
-1. Download `ScreenOffTray-0.2.0-Setup-x64.exe` from the Release, run it, and complete the Windows administrator prompt. Setup works offline and does not download the .NET runtime.
+1. Download `ScreenOffTray-0.2.1-Setup-x64.exe` from the Release, run it, and complete the Windows administrator prompt. Setup works offline and does not download the .NET runtime. The wizard keeps native keyboard and DPI behavior while using a neutral misted background, fine highlight edges and glass cards.
 2. On first launch, choose “Prepare and enable display off”. Preparation matches the physical display conditions and restores the layout. The display may flicker; avoid changing Windows display settings at the same time. If safe matching fails, display-off stays paused.
 3. Right-click the tray icon → Settings to change the timeout, shortcut, language and startup preference. Save applies ordinary drafts; Cancel or closing the window discards them. Whitelist edits are saved immediately. Display off is deferred while Settings is open and resumes its existing rules after closure. New users start with **10 minutes** and startup disabled.
 4. Press **Ctrl+Alt+F10**, or choose “Turn off now”. To customize the shortcut, focus its field in Settings, press a combination, release it and save.

diff --git a/README.md b/README.md
@@ -1,4 +1,4 @@
-> ScreenOffTray 0.2.0：设置界面升级为独立的 Pane 风格 WPF 进程，提供几何、暖白和黑色三种外观，同时保留原有驱动、关屏、输入恢复、播放保护和显示准备流程。
+> ScreenOffTray 0.2.1：设置与安装向导统一为 Pane 风格的中性磨砂玻璃界面，提供浅色、暖白和黑色三种外观，同时保留原有驱动、关屏、输入恢复、播放保护和显示准备流程。
 
 # ScreenOffTray
 
@@ -8,13 +8,13 @@
 
 适合使用 OLED 显示器、希望离开时关屏，同时保留下载、计算和其他后台任务的 Windows 用户。支持快捷键立即关屏，也能按实体键鼠的空闲时间自动关屏。它不会锁屏、睡眠、休眠或关机。
 
-**[下载 Windows x64 安装包 · v0.2.0](https://github.com/shilefumaoqu/ScreenOffTray/releases/tag/v0.2.0)**
+**[下载 Windows x64 安装包 · v0.2.1](https://github.com/shilefumaoqu/ScreenOffTray/releases/tag/v0.2.1)**
 
-**0.2.0** 使用独立的 `ScreenOffTray.Settings.exe` 显示 Pane 风格设置界面，后台继续负责托盘、播放保护、快捷键和关屏。旧版 `v0.1.9` 及更早安装包继续保留，不会被覆盖。
+**0.2.1** 修正 Pane 风格设置页误用参考图彩色几何壁纸的问题，并删除窗口外围的演示底图、外边距和投影，只保留中性蓝灰磨砂玻璃窗口本体；顶层不透明雾面材质同时消除了透明窗口内容重影。安装向导同步采用浅/深色雾面背景、玻璃卡片和同款双层月亮图标。设置仍由独立的 `ScreenOffTray.Settings.exe` 承载，后台继续负责托盘、播放保护、快捷键和关屏。`v0.2.0`、`v0.1.9` 及更早安装包继续保留，不会被覆盖。
 
-![中文几何外观：隔离演示数据](docs/images/settings-zh.png)
+![中文浅色外观：隔离演示数据](docs/images/settings-zh.png)
 
-右键显示状态与常用操作的小菜单，点击“设置…”打开独立的 Pane 风格 WPF 窗口。界面分为通用、播放保护、关于三页，提供几何、暖白和黑色三种外观；默认几何，主题随设置保存。程序图标来自实际可执行文件，首页图标使用确认后的双层月亮资源。窗口可最小化，关闭后设置进程结束，后台继续在托盘运行；只有菜单“退出”结束程序。正常就绪启动保持安静；安装结束点击“完成并配置”，直接进入同一设置宿主：检查显示条件、一键完成配置、确认已就绪。失败时在同一窗口说明处理步骤；可稍后处理，未完成前不会关屏。
+右键显示状态与常用操作的小菜单，点击“设置…”打开独立的 Pane 风格 WPF 窗口。界面分为通用、播放保护、关于三页，提供浅色、暖白和黑色三种外观；默认浅色，主题随设置保存。程序图标来自实际可执行文件，设置页和安装向导使用同一套双层月亮标识。窗口可最小化，关闭后设置进程结束，后台继续在托盘运行；只有菜单“退出”结束程序。正常就绪启动保持安静；安装结束点击“完成并配置”，直接进入同一设置宿主：检查显示条件、一键完成配置、确认已就绪。失败时在同一窗口说明处理步骤；可稍后处理，未完成前不会关屏。
 
 [English UI](docs/images/settings-en.png) · [Warm white](docs/images/settings-warm.png) · [Black](docs/images/settings-black.png)
 
@@ -22,7 +22,7 @@
 
 ## 开始使用
 
-1. 从 Release 下载 `ScreenOffTray-0.2.0-Setup-x64.exe`，运行安装程序并完成 Windows 管理员确认。安装包可离线使用，不下载 .NET 运行时。
+1. 从 Release 下载 `ScreenOffTray-0.2.1-Setup-x64.exe`，运行安装程序并完成 Windows 管理员确认。安装包可离线使用，不下载 .NET 运行时；安装向导沿用系统原生键盘和 DPI 行为，并以中性雾面、细高光边和玻璃卡片呈现。
 2. 首次打开，在准备区点击“自动准备并启用关屏”。它会匹配实体屏的显示条件并恢复布局；准备时显示可能闪动，请暂时不要同时修改 Windows 显示设置。无法安全匹配时，关屏保持暂停。
 3. 托盘右键 →“设置…”中调整关闭时间、快捷键、语言和开机启动。普通修改点击“保存”才生效，“取消”或关闭窗口放弃草稿；白名单增删即时保存。设置窗口打开期间暂缓关屏，关闭后恢复原有判断。新用户默认空闲 **10 分钟**，开机启动默认关闭。
 4. 按默认 **Ctrl+Alt+F10** 或点击“立即关屏”。快捷键可在设置中的输入框重新录入并保存。

diff --git a/docs/0.2.1-中性玻璃与安装器.md b/docs/0.2.1-中性玻璃与安装器.md
@@ -1,0 +1,38 @@
+# ScreenOffTray 0.2.1 · 中性玻璃与安装器
+
+## 范围
+
+以公开发布的 `0.2.0` 为基线，独立发布 `0.2.1`，不覆盖旧 Release。驱动、显示准备、关屏、输入恢复和播放保护判断不在本批修改范围内。
+
+## 设置界面
+
+- 删除参考样板中的橙、蓝、绿、黄几何壁纸。
+- 删除窗口外围的演示底图、24px 外边距和投影；窗口边界改为磨砂玻璃主体自身的圆角透明边。
+- 顶层窗口、侧栏和页脚改为不透明雾面材质，避免透明窗口合成产生内容重影；卡片保留内部层次。
+- 浅色改为中性蓝灰材质；暖白使用独立暖灰不透明材质，黑色保持深色材质，内部主题值继续兼容 `geometry`、`warm`、`black`。
+- 左上仅显示双层月亮图标与 `ScreenOffTray`，不显示“设置”副标题。
+- 左下仅保留状态点和“检查”。
+- 双语、键盘操作、固定底栏、窄窗滚动和设置事务保持原样。
+
+## 安装向导
+
+- 固定使用 Inno Setup 7.1.0。
+- `WizardStyle=modern dynamic polar hidebevels`，跟随系统浅色/深色外观。
+- 浅色和深色分别使用中性雾面背景，玻璃卡片、柔和蓝灰光晕、细高光边与同款双层月亮标识。
+- 使用原生向导文字、按钮、键盘、高 DPI、升级核验和卸载流程；未伪造实时桌面模糊。
+- 新增可重复生成向导素材的脚本 `Installer/generate-wizard-assets.ps1`。
+
+## 验证
+
+- WPF 隔离布局：39 项通过，0 失败；覆盖中英文、十项名单、宽窄工作区、固定底栏、键盘可见性、外层展示背景删除、页脚不透明材质和三套主题顶层颜色差异。
+- 实际查看浅色/深色背景、侧图和小图素材。
+- Inno Setup 7.1.0 编译通过，动态向导和全部图片字段被编译器接受。
+- 版本门禁：4 项静态比较通过，拒绝高于 `0.2.1.0` 的旧升级路径。
+- 更新版本解析：13 项通过，确认 `0.2.1` 高于 `0.2.0`。
+
+## 边界
+
+- 隔离测试不修改正式设置、显示设备或驱动。
+- 未覆盖安装当前正式程序；安装包与 GitHub Release 单独发布。
+- 未重复已经通过的实体关屏、输入恢复和驱动矩阵，因为这些代码未改。
+- 安装器图片已编译，但受当前电脑工具启动审批超时影响，未把实际向导运行截图作为交付证据。

diff --git a/RELEASE_NOTES.md b/RELEASE_NOTES.md
@@ -1,3 +1,11 @@
+# ScreenOffTray 0.2.1
+
+设置界面保留 Pane 风格的三页布局，移除误照搬的橙蓝绿黄几何壁纸，也删除窗口外围的演示底图、外边距和投影；只保留磨砂玻璃窗口本体与圆角透明边。顶层窗口、侧栏和页脚改用不透明雾面材质，消除 WPF 透明窗口在部分显卡上的内容重影，卡片仍保留窗口内部的轻微层次。外观选项调整为浅色、暖白、黑色，默认浅色。安装向导同步采用 Inno Setup 7.1.0 的现代动态向导、浅/深色雾面背景、玻璃卡片和双层月亮标识，并保留系统原生高 DPI、键盘及升级核验流程。显示准备、关屏、输入恢复、播放保护、白名单、快捷键、语言和开机启动逻辑未改。`v0.2.0`、`v0.1.9` 与历史安装包保持独立。
+
+Settings keeps the three-page Pane-inspired layout while removing the sampled orange, blue, green and yellow geometry wallpaper. It also removes the display-only backdrop, outer margin and shadow, leaving only the rounded frosted-glass window itself. Opaque misted surfaces are used for the top-level window, sidebar and footer to eliminate transparent-window ghosting on affected GPUs while cards keep their internal depth. Its appearances are now Light, Warm white and Black, with Light as the default. Setup uses Inno Setup 7.1.0's modern dynamic wizard with matching light and dark misted backgrounds, glass cards and the layered-moon mark while retaining native high-DPI, keyboard and upgrade-verification behavior. Display preparation, display-off, input recovery, playback protection, allowlist, hotkey, language and startup logic are unchanged. `v0.2.0`, `v0.1.9` and older releases remain independent.
+
+---
+
 # ScreenOffTray 0.2.0
 
 设置界面迁移为独立的 WPF 进程，采用 Pane 风格的三页布局与几何、暖白、黑色三种外观，默认几何。保留原有显示准备、关屏、输入恢复、播放保护、白名单、快捷键、语言和开机启动流程；设置主题随其他设置一起持久化。旧版 `v0.1.9` 与历史安装包保持独立。
